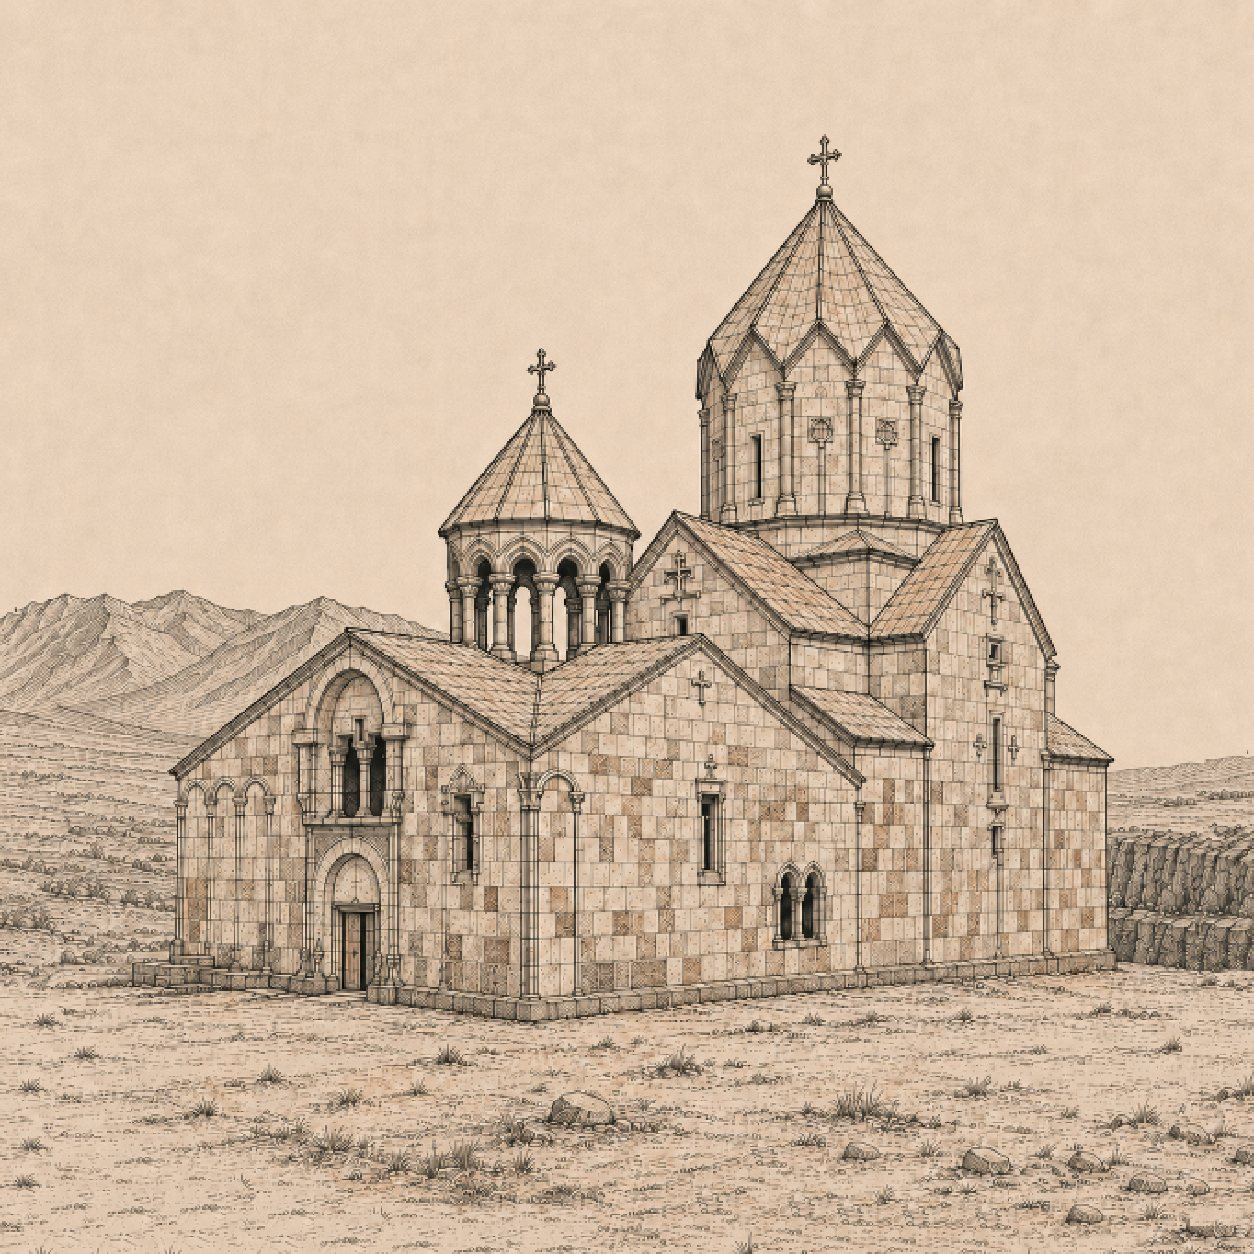
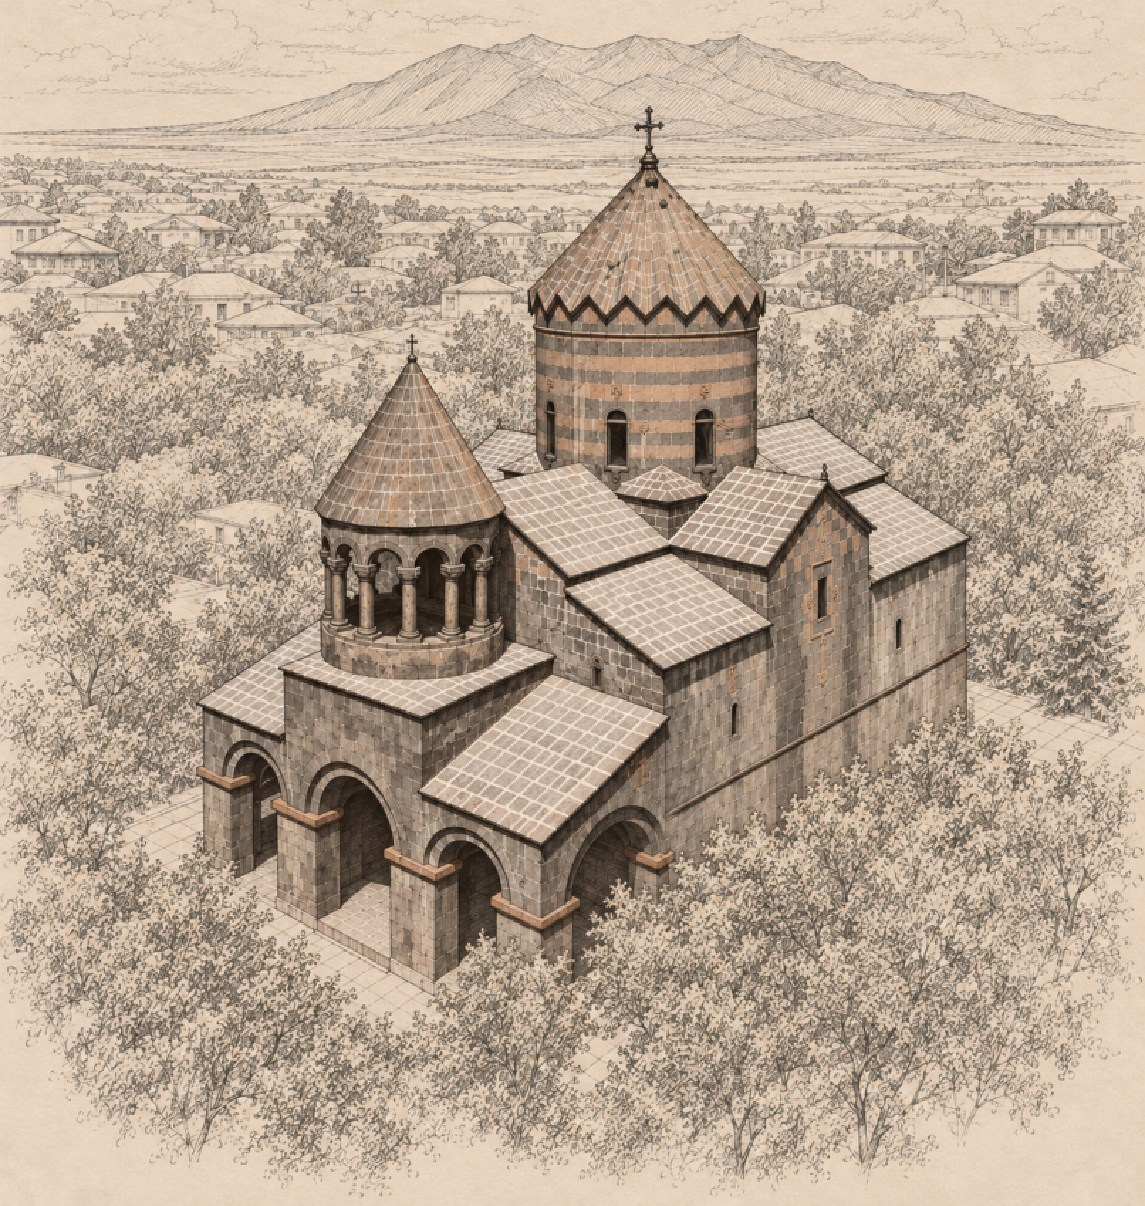
Updated

diff --git a/src/config/weddingConfig.js b/src/config/weddingConfig.js
@@ -36,7 +36,7 @@ const eventAssets = [
     id: 'church',
     number: '03',
     time: '13:50',
-    mapUrl: 'https://yandex.com/maps/?text=Hovhannavank%20Monastery%2C%20Aragatsotn%2C%20Armenia',
+    mapUrl: 'https://yandex.com/maps/org/mughnu_surb_gevorg_yekeghetsi/93446083608/?ll=44.600520%2C40.267840&z=11.19',
     image: churchImage,
     enabled: true,
   },
@@ -139,12 +139,12 @@ const localizedContent = {
         imageAlt: 'Հարսի տան նկարազարդում',
       },
       church: {
-        title: 'Հովհանավանք',
+        title: 'Սուրբ Գևորգ եկեղեցի',
         timelineTitle: 'Պսակադրություն',
-        addressTitle: 'Հովհաննավանք ',
-        venue: 'Հովհանավանք',
+        addressTitle: 'Սուրբ Գևորգ եկեղեցի',
+        venue: 'Սուրբ Գևորգ եկեղեցի',
         address: '',
-        imageAlt: 'Սուրբ Հռիփսիմե եկեղեցու նկարազարդում',
+        imageAlt: 'Սուրբ Գևորգ եկեղեցու նկարազարդում',
       },
       zags: {
         title: 'Ամուսնության գրանցում',
@@ -279,12 +279,12 @@ const localizedContent = {
         imageAlt: 'Иллюстрация дома невесты',
       },
       church: {
-        title: 'Ованнаванк',
+        title: 'Церковь Святого Георгия',
         timelineTitle: 'Венчание',
-        addressTitle: 'Ованнаванк',
-        venue: 'Ованнаванк',
+        addressTitle: 'Церковь Святого Георгия',
+        venue: 'Церковь Святого Георгия',
         address: '',
-        imageAlt: 'Иллюстрация церкви',
+        imageAlt: 'Иллюстрация церкви Святого Георгия',
       },
       zags: {
         title: 'Регистрация брака',
@@ -419,12 +419,12 @@ const localizedContent = {
         imageAlt: 'Bride\'s house illustration',
       },
       church: {
-        title: 'Hovhannavank',
+        title: 'Saint George Church',
         timelineTitle: 'Wedding Ceremony',
-        addressTitle: 'Hovhannavank',
-        venue: 'Hovhannavank',
+        addressTitle: 'Saint George Church',
+        venue: 'Saint George Church',
         address: '',
-        imageAlt: 'Church illustration',
+        imageAlt: 'Saint George Church illustration',
       },
       zags: {
         title: 'Marriage Registration',

diff --git a/src/index.css b/src/index.css
@@ -909,6 +909,11 @@ img {
   transform: scale(1.02);
 }
 
+.event-media-church img {
+  object-position: center 62%;
+  transform-origin: center 62%;
+}
+
 .event-card:hover .event-media img,
 .event-card:focus-within .event-media img {
   transform: scale(1.13);
